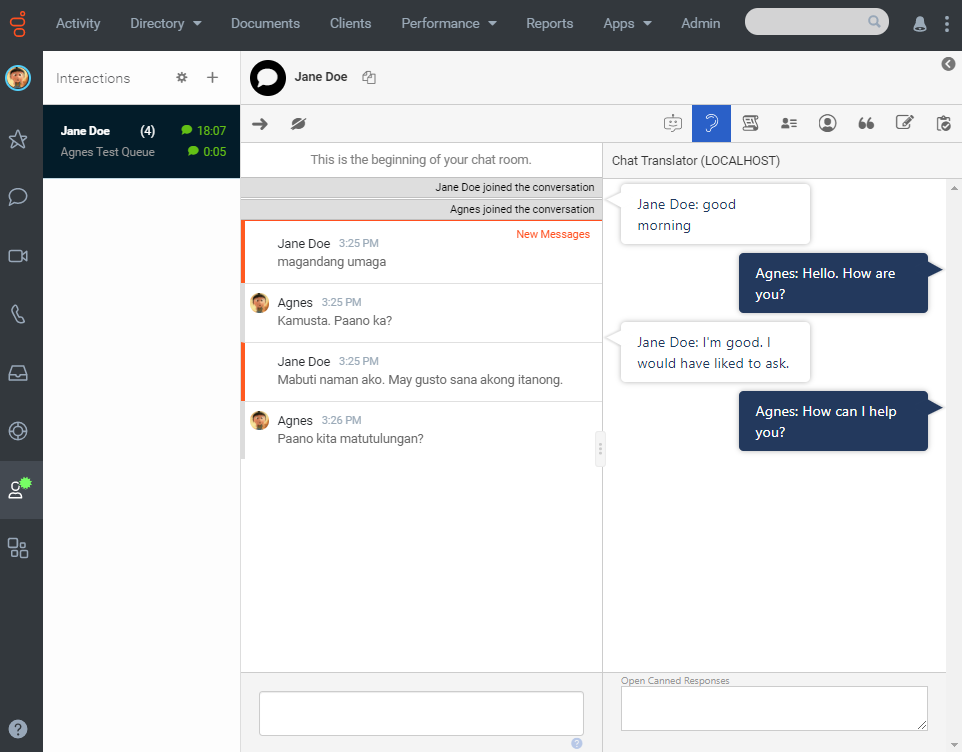
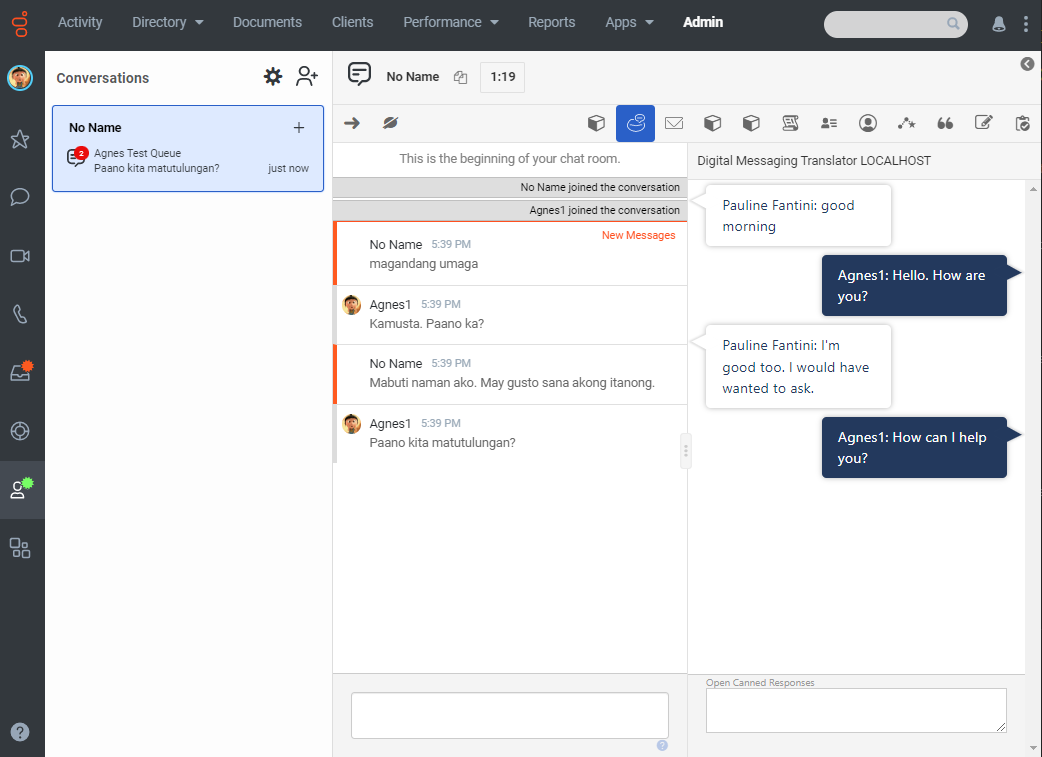
Add blueprint contents

diff --git a/docs/scripts/main.js b/docs/scripts/main.js
@@ -9,7 +9,6 @@ const client = platformClient.ApiClient.instance;
 
 // API instances
 const usersApi = new platformClient.UsersApi();
-const analyticsApi = new platformClient.AnalyticsApi();
 const conversationsApi = new platformClient.ConversationsApi();
 const responseManagementApi = new platformClient.ResponseManagementApi();
 
@@ -67,7 +66,6 @@ let onMessage = (data) => {
         let messageId = '';
         let purpose = '';
         let name = '';
-        let messageStatus = '';
 
         var messages = [];
         var participantPurposes = [];
@@ -81,7 +79,6 @@ let onMessage = (data) => {
             return;
         } else if (data.eventBody.participants.find(p => p.purpose == 'customer').endTime) {
             console.log('ending conversation');
-            // closeMessage();
         } else {
             data.eventBody.participants.forEach((participant) => {
                 if(!participant.endTime) {

diff --git a/blueprint/index.md b/blueprint/index.md
@@ -1,17 +1,17 @@
 ---
-title: Build a chat translation assistant with the AWS Translate service
+title: Build a digital messaging translation assistant with the AWS Translate service
 author: agnes.corpuz
 indextype: blueprint
 icon: blueprint
-image: images/flowchart.png
+image: images/banner.png
 category: 6
 summary: |
-  This Genesys Cloud Developer Blueprint provides instructions for building a chat translation assistant which uses the AWS Translate service to allow customers and agents to chat in their preferred languages. The chat translation assistant automatically translates everything in the chat window in real-time, including canned responses.
+  This Genesys Cloud Developer Blueprint provides instructions for building a translation assistant which uses the AWS Translate service to allow customers and agents to chat in their preferred languages. The translation assistant automatically translates everything in the integration window in real-time, including canned responses. This supports both web chat and web messaging interactions.
 ---
 
-This Genesys Developer Cloud Blueprint provides instructions for building a chat translation assistant which uses the AWS Translate service to allow customers and agents to chat in their preferred languages. The chat translation assistant automatically translates everything in the chat window in real-time, including canned responses.
+This Genesys Cloud Developer Blueprint provides instructions for building a translation assistant which uses the AWS Translate service to allow customers and agents to chat in their preferred languages. The translation assistant automatically translates everything in the integration window in real-time, including canned responses. This supports both web chat and web messaging interactions.
 
-![Chat translation assistant](images/flowchart.png "Chat translation assistant")
+![Digital Messaging translation assistant](images/flowchart.png "Digital Messaging translation assistant")
 
 * [Solution components](#solution-components "Goes to the Solution components section")
 * [Requirements](#requirements "Goes to the Requirements section")
@@ -20,16 +20,16 @@ This Genesys Developer Cloud Blueprint provides instructions for building a chat
 
 ## Solution components
 
-* **Genesys Cloud** - A suite of Genesys cloud services for enterprise-grade communications, collaboration, and contact center management. You deploy the Chat Translator solution in Genesys Cloud.
+* **Genesys Cloud** - A suite of Genesys cloud services for enterprise-grade communications, collaboration, and contact center management. You deploy the Digital Messaging Translator solution in Genesys Cloud.
 * **Genesys AppFoundry** - The Genesys app marketplace for solutions that run on the Genesys Cloud platform. You download the integration used in this solution from the Genesys AppFoundry.
-* **Interaction Widget integration** - The Genesys Cloud integration that enables web apps to be embedded in an iframe within Genesys Cloud. The iframe only appears on specified interaction types and to specified agents. For this solution, Genesys Cloud uses the Interaction Widget integration to show translated chat messages to the customer.
-* **AWS IAM** - Identity and Access Management that controls access to AWS resources such as services or features. In this solution, you set the permissions to allow the Chat Translator to access Amazon Translate and the AWS SDK.
-* **Amazon Translate** - A translation service that enables cross-lingual communication between users of an application. Amazon Translate is the translation service used in the Chat Translator solution.
+* **Interaction Widget integration** - The Genesys Cloud integration that enables web apps to be embedded in an iframe within Genesys Cloud. The iframe only appears on specified interaction types and to specified agents. For this solution, Genesys Cloud uses the Interaction Widget integration to show translated web chat and web messages to the customer.
+* **AWS IAM** - Identity and Access Management that controls access to AWS resources such as services or features. In this solution, you set the permissions to allow the Digital Messaging Translator to access Amazon Translate and the AWS SDK.
+* **Amazon Translate** - A translation service that enables cross-lingual communication between users of an application. Amazon Translate is the translation service used in the Digital Messaging Translator solution.
 
 ### Software development kits (SDKs)
 
-* **Genesys Cloud Platform API SDK** -Client libraries used to simplify application integration with Genesys Cloud by handling low-level HTTP requests. This SDK is used for the initial chat interaction between agent and customer.
-* **AWS for JavaScript SDK** - This SDK enables developers to build and deploy applications that use AWS services. This solution uses the JavaScript API to enable the Chat Translator in an agent's browser and it uses the inside Node.js applications to enable the Chat Translator on the server where Genesys Cloud runs.
+* **Genesys Cloud Platform API SDK** -Client libraries used to simplify application integration with Genesys Cloud by handling low-level HTTP requests. This SDK is used for the initial chat and messaging interaction between agent and customer.
+* **AWS for JavaScript SDK** - This SDK enables developers to build and deploy applications that use AWS services. This solution uses the JavaScript API to enable the Digital Messaging Translator in an agent's browser and it uses the inside Node.js applications to enable the Digital Messaging Translator on the server where Genesys Cloud runs.
 
 ## Requirements
 
@@ -55,19 +55,13 @@ This Genesys Developer Cloud Blueprint provides instructions for building a chat
 * [Download the repository containing the project files](#download-the-repository-containing-the-project-files "Goes to the Download the repository containing the project files section")
 * [Create a Token Implicit OAuth Grant for Genesys Cloud](#create-a-token-implicit-oauth-grant-for-genesys-cloud "Goes to the Create a Token Implicit OAuth Grant for Genesys Cloud section")
 * [Set up AWS Translate](#set-up-aws-translate "Goes to the Set up AWS Translate section")
-* [Install and activate the Chat Translator in Genesys Cloud](#install-and-activate-the-chat-translator-in-genesys-cloud "Goes to the Install and activate the Chat Translator in Genesys Cloud section")
+* [Install and activate the Digital Messaging Translator in Genesys Cloud](#install-and-activate-the-digital-messaging-translator-in-genesys-cloud "Goes to the Install and activate the Digital Messaging Translator in Genesys Cloud section")
 * [Host and run the Node.js app server](#host-and-run-the-node-js-app-server "Goes to the Host and run the Node.js app server section")
 * [Test the solution](#test-the-solution "Goes to the Test the solution section")
 
 ### Download the repository containing the project files
 
-1. Clone the [chat-translator-blueprint repository](https://github.com/GenesysCloudBlueprints/chat-translator-blueprint "Opens the chat-translator-blueprint repository in GitHub").
-
-### Create a token implicit OAuth grant for Genesys Cloud
-
-1. Log in to your Genesys Cloud organization and create a new OAuth client that uses the Token Implicit Grant (Browser) type. For more information, see [Create an OAuth client](https://help.mypurecloud.com/articles/?p=188023 "Opens the Create an OAuth client article") in the Genesys Cloud Resource Center.
-   1. Add `https://localhost/` as an Authorized redirect URI.
-2. In your local blueprint repository, open the [config.js](https://github.com/GenesysCloudBlueprints/chat-translator-blueprint/blob/main/docs/scripts/config.js) file. Add the client ID from your OAuth client and specify the region where your Genesys Cloud organization is located, for example, `mypurecloud.ie` or `mypurecloud.com.au`.
+1. Clone the [digital-messaging-blueprint repository](https://github.com/GenesysCloudBlueprints/digital-messaging-blueprint "Opens the digital-messaging-blueprint repository in GitHub").
 
 ### Set up AWS Translate
 
@@ -78,10 +72,52 @@ This Genesys Developer Cloud Blueprint provides instructions for building a chat
 5. Create an .env file in the directory folder and provide values for the following variables: `AWS_REGION`, `AWS_ACCESS_KEY_ID`, and `AWS_SECRET_ACCESS_KEY`.
 
   :::primary
-  **Tip**: Start with the sample.env file for this blueprint and provide your org-specific details.
+  **Tip**: Start with the sample.env file for this blueprint, rename it to `.env` and provide your org-specific details.
   :::
 
-### Install and activate the Chat Translator in Genesys Cloud
+### Set up Genesys Cloud
+
+#### Create a token implicit OAuth grant for Genesys Cloud
+
+1. Log in to your Genesys Cloud organization and create a new OAuth client that uses the Token Implicit Grant (Browser) type. For more information, see [Create an OAuth client](https://help.mypurecloud.com/articles/?p=188023 "Opens the Create an OAuth client article") in the Genesys Cloud Resource Center.
+   1. Add `https://localhost/` as an **Authorized redirect URI**.
+   2. Add `conversations`, `conversations:readonly`, `notifications`, `response-management`, `response-management:readonly`, `user-basic-info` and `users:readonly` as **Scope**.
+2. In your local blueprint repository, open the [config.js](https://github.com/GenesysCloudBlueprints/digital-messaging-blueprint/blob/main/docs/scripts/config.js) file. Add the client ID from your OAuth client and specify the region where your Genesys Cloud organization is located, for example, `mypurecloud.ie` or `mypurecloud.com.au`.
+
+#### Create Messenger Configuration
+
+1. In Genesys Cloud Admin, navigate to **Message > Messenger Configurations**. 
+2. Enter `Translation Messenger` as the **Name**.
+3. Select `All Languages` in **Select Supported Languages**
+
+For more information, see [Configure Messenger](https://help.mypurecloud.com/articles/configure-messenger/).
+
+![Add messenger configuration](images/messenger-configuration.png "Add messenger configuration")
+
+#### Create Inbound Message Flow
+
+1. In Genesys Cloud Architect, add an **Inbound Message** flow.
+2. Click **+ Add** and enter `Web Messaging Translation` as the **Name** of the flow. Click **Create Flow**.
+3. You may opt to send a response message before transferring to a queue for testing purposes.
+4. Transfer to ACD and choose a queue.
+5. Click **Save** and **Publish**.
+
+![Inbound Message Flow](images/inbound-message-flow.png "Inbound Message Flow")
+
+#### Create Messenger Deployment
+
+1. In Genesys Cloud Admin, navigate to **Message > Messenger Deployments**.
+2. Enter `Translation Deployment` as the **Name**.
+3. Select `Translation Messenger v1` in the **Select your Configuration** section.
+4. Select `Web Messaging Translation` in the **Select your Architect Flow** section.
+5. Click **Save** and toggle your deployment as **Active**.
+6. Under **Deploy your snippet**, click **Copy to Clipboard** to copy the snippet. Paste the snippet to the `<head>` tag of all you webpages.
+
+For more information, see [Deploy Messenger](https://help.mypurecloud.com/articles/deploy-messenger/).
+
+![Add messenger deployment](images/messenger-deployment.png "Add messenger deployment")
+
+### Install and activate the Digital Messaging Translator in Genesys Cloud
 
 1. Log in to your Genesys Cloud organization and add an integration. For more information, see [Add an integration](https://help.mypurecloud.com/?p=135807 "Opens the Add an integration article") in the Genesys Cloud Resource Center.
 
@@ -91,7 +127,7 @@ This Genesys Developer Cloud Blueprint provides instructions for building a chat
 
    ![Install Interaction Widget](images/install-interaction-widget.png "Install Interaction Widget")
 
-3. (Optional) Use the **Name** box to give the widget a meaningful name. For example, **Chat Translator**.
+3. (Optional) Use the **Name** box to give the widget a meaningful name. For example, **Digital Messaging Translator**.
 
    ![Interaction Widget name](images/name-interaction.png "Interaction Widget name")
 
@@ -106,7 +142,7 @@ This Genesys Developer Cloud Blueprint provides instructions for building a chat
 
 6. To limit access to specific groups of agents, in **Group Filtering**, select the groups that can use the widget.
 7. To limit access to specific queues, click **Select Queues** and select the queues that can use the widget.
-8. In the **Communication Type Filtering** box, type **chat**.  
+8. In the **Communication Type Filtering** box, type `chat, webmessaging`.  
 
    ![Interaction configuration](images/interaction-config.png "Interaction configuration")
 
@@ -124,13 +160,13 @@ This Genesys Developer Cloud Blueprint provides instructions for building a chat
          }
        },
        "icon": {
-          "48x48": "https://raw.githubusercontent.com/GenesysCloudBlueprints/chat-translator-blueprint/main/blueprint/images/ear%2048x48.png",
-          "96x96": "https://raw.githubusercontent.com/GenesysCloudBlueprints/chat-translator-blueprint/main/blueprint/images/ear%2096x96.png",
-          "128x128": "https://raw.githubusercontent.com/GenesysCloudBlueprints/chat-translator-blueprint/main/blueprint/images/ear%20128x128.png",
-          "256x256": "https://raw.githubusercontent.com/GenesysCloudBlueprints/chat-translator-blueprint/main/blueprint/images/ear%20256x256.png"
+          "48x48": "https://raw.githubusercontent.com/AgnesCorpuz/digital-messaging-blueprint/main/blueprint/images/verbal-48x48.png",
+          "96x96": "https://raw.githubusercontent.com/AgnesCorpuz/digital-messaging-blueprint/main/blueprint/images/verbal-96x96.png",
+          "128x128": "https://raw.githubusercontent.com/AgnesCorpuz/digital-messaging-blueprint/main/blueprint/images/verbal-128x128.png",
+          "256x256": "https://raw.githubusercontent.com/AgnesCorpuz/digital-messaging-blueprint/main/blueprint/images/verbal-256x256.png"
       },
        "monochromicIcon": {
-         "vector": "https://raw.githubusercontent.com/GenesysCloudBlueprints/chat-translator-blueprint/main/blueprint/images/ear.svg"
+         "vector": "https://raw.githubusercontent.com/AgnesCorpuz/digital-messaging-blueprint/main/blueprint/images/verbal.svg"
        }
      }
   ```
@@ -142,10 +178,28 @@ This Genesys Developer Cloud Blueprint provides instructions for building a chat
   * To install the latest version, type `npm install -g n latest`.
 
 
-2. Switch to the directory where the files for your Chat Translator project are located and install the dependencies in the local node-modules folder. In the command line, type `npm install`.
+2. Switch to the directory where the files for your Digital Messaging Translator project are located and install the dependencies in the local node-modules folder. In the command line, type `npm install`.
 3. To run the server locally, in the command line type `node run-local.js`.
 
 ### Test the solution
+
+#### Translate web message interactions
+
+1. Go to your website and start a web message.
+   ![Start web message interaction](images/start-web-message.png "Start web message interaction")
+2. To answer the message as an agent, in your Genesys Cloud organization change your status to **On Queue** and then answer the incoming interaction.
+3. To open the Digital Messaging Translator, click the **Digital Messaging Translator** button, which appears in the agent's toolbar.
+   ![Web message interaction](images/web-message-interaction.png "Incoming web message interaction")
+4. Practice sending and receiving messages in different languages. When you type a message, the Digital Messaging Translator automatically translates it into the language that the customer is using.
+  :::primary
+  **Important**: Make sure to type on the right side of the interaction for the Digital Messaging Translator app to successfully translate the agent's message.
+  :::
+  ![Translated message](images/web-message-translate.png "Translated message")
+  ![Customer view](images/web-message-translate-customer.png "Customer view")
+5. To send a translated canned response, click **Open Canned Responses** and select a canned response.  
+  ![Translated canned response](images/translate-canned-response.png "Translated canned response")
+
+#### Translate web chat interactions
 
 1. Create a Genesys web chat widget. For more information, see [Create a widget for web chat](https://help.mypurecloud.com/?p=195772 "Opens the Create a widget for web chat article") in the Genesys Cloud Resource Center.
 
@@ -164,18 +218,19 @@ This Genesys Developer Cloud Blueprint provides instructions for building a chat
 5. To start a chat as a customer, click **Start Chat**.
 6. To answer the chat as an agent, in your Genesys Cloud organization change your status to **On Queue** and then answer the incoming interaction.
   ![Chat interaction](images/chat-interaction.png "Incoming chat interaction")
-7. To open the Chat Translator, click the **Chat Translator** button, which appears in the agent's toolbar.
-8. Practice sending and receiving chats in different languages. When you type a chat, the Chat Translator automatically translates it into the language that the customer is using.
+7. To open the Digital Messaging Translator, click the **Digital Messaging Translator** button, which appears in the agent's toolbar.
+8. Practice sending and receiving chats in different languages. When you type a chat, the Digital Messaging Translator automatically translates it into the language that the customer is using.
   :::primary
-  **Important**: Make sure to type on the right side of the interaction for the Chat Translator app to successfully translate the agent's message.
+  **Important**: Make sure to type on the right side of the interaction for the Digital Messaging Translator app to successfully translate the agent's message.
   :::
   ![Translated chat](images/chat-translate.png "Translated chat")
 9. To send a translated canned response, click **Open Canned Responses** and select a canned response.  
-  ![Translated canned response](images/translate-canned-response.png "Translated canned response")
+  ![Translated canned response](images/translate-canned-response-chat.png "Translated canned response")
 
 ## Additional resources
 
 * [Genesys Cloud Platform Client SDK](https://developer.mypurecloud.com/api/rest/client-libraries/ "Opens the Genesys Cloud Platform Client SDK page")
 * [Genesys AppFoundry](https://appfoundry.genesys.com/filter/genesyscloud "Opens the Genesys AppFoundry")
+* [About web messaging](https://help.mypurecloud.com/articles/about-web-messaging/)
 * [Amazon Translate](https://aws.amazon.com/translate/ "Opens Amazon Translate page") in the AWS documentation
 * [Chat-translator-blueprint repository](https://github.com/GenesysCloudBlueprints/chat-translator-blueprint "Opens the chat-translator-blueprint repository in GitHub")

diff --git a/README.md b/README.md
@@ -1,7 +1,7 @@
-# Build a chat translation assistant with the AWS Translate service
+# Build a digital messaging translation assistant with the AWS Translate service
 
-> View the full [Genesys Cloud Chat Translator Blueprint article](https://developer.mypurecloud.com/blueprints/chat-translator-blueprint/) on the Genesys Cloud Developer Center.
+> View the full [Genesys Cloud Digital Messaging Translator Blueprint article](https://developer.mypurecloud.com/blueprints/digital-messaging-blueprint/) on the Genesys Cloud Developer Center.
 
-This Genesys Cloud Developer Blueprint provides instructions for building a chat translation assistant which uses the AWS Translate service to allow customers and agents to chat in their preferred languages. The chat translation assistant automatically translates everything in the chat window in real-time, including canned responses.
+This Genesys Cloud Developer Blueprint provides instructions for building a translation assistant which uses the AWS Translate service to allow customers and agents to chat in their preferred languages. The translation assistant automatically translates everything in the integration window in real-time, including canned responses. This supports both web chat and web messaging interactions.
 
-![Chat translation assistant](blueprint/images/flowchart.png "Chat translation assistant")
+![Digital messaging translation assistant](blueprint/images/flowchart.png "Digital messaging translation assistant")
